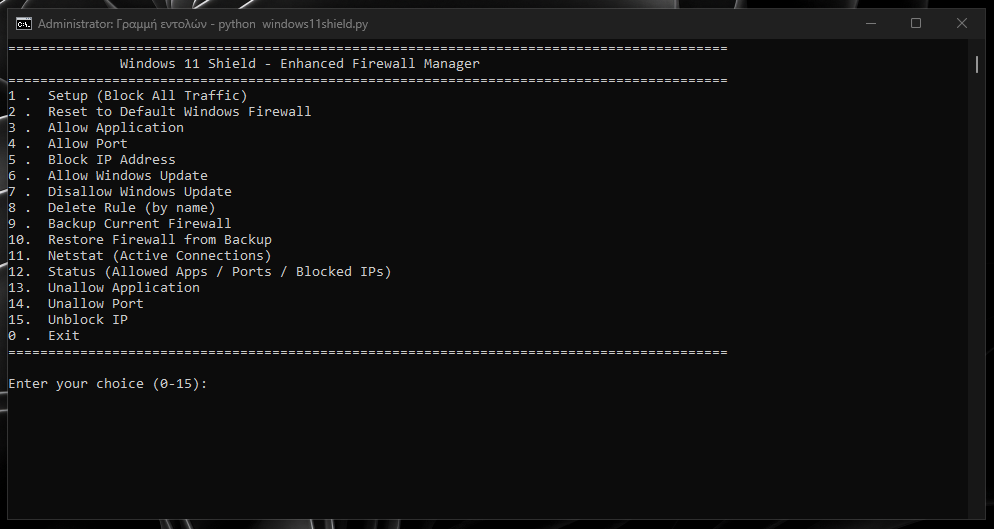
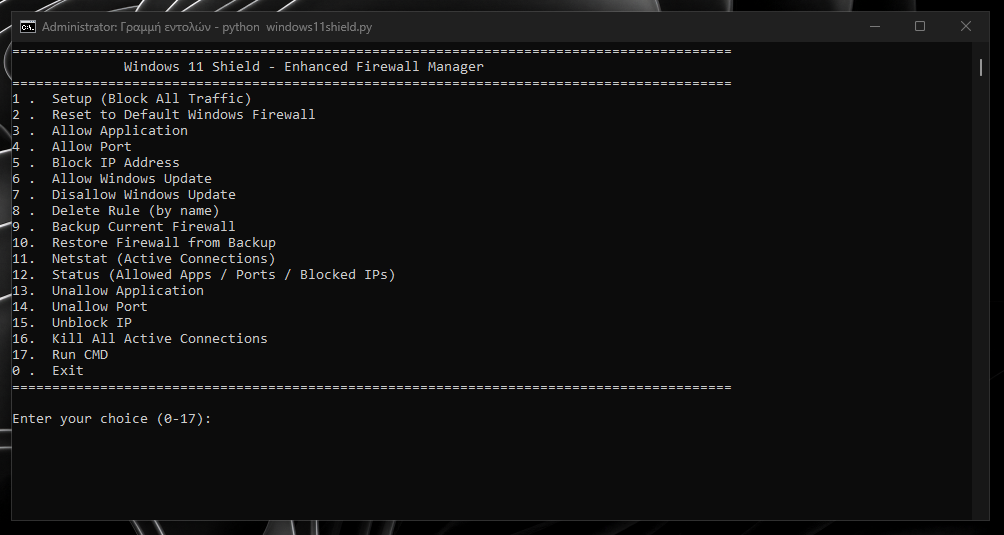
Add files via upload

diff --git a/windows11shield.py b/windows11shield.py
@@ -58,6 +58,49 @@ def run_command(cmd):
     except Exception as e:
         return -1, "", str(e)
 
+# ====================== KILL ALL CONNECTIONS ======================
+def kill_all_connections():
+    print("⚠️  WARNING: This will kill ALL active network connections!")
+    print("This may disconnect you from the internet, remote sessions, downloads, etc.")
+    confirm = input("\nAre you ABSOLUTELY sure? (type YES to continue): ").strip().upper()
+    
+    if confirm != "YES":
+        print("Operation cancelled.")
+        return
+
+    print("\n🔍 Reading active connections...")
+    try:
+        result = subprocess.run("netstat -ano", shell=True, capture_output=True, text=True, encoding='utf-8', errors='replace')
+        lines = result.stdout.splitlines()
+        
+        pids_to_kill = set()
+        for line in lines:
+            if "ESTABLISHED" in line or "TIME_WAIT" in line:
+                parts = line.split()
+                if len(parts) >= 5:
+                    pid = parts[-1].strip()
+                    if pid.isdigit() and int(pid) > 100:  # Protect system critical PIDs
+                        pids_to_kill.add(pid)
+        
+        if not pids_to_kill:
+            print("No active connections found to kill.")
+            return
+
+        print(f"Found {len(pids_to_kill)} active connections to terminate...")
+        
+        killed = 0
+        for pid in pids_to_kill:
+            code, _, _ = run_command(f"taskkill /F /PID {pid}")
+            if code == 0:
+                killed += 1
+            # Small delay to avoid overwhelming the system
+            time.sleep(0.05)  # uncomment if needed
+        
+        print(f"✅ Successfully killed {killed} connections.")
+        
+    except Exception as e:
+        print(f"❌ Error: {e}")
+
 # ====================== CORE FUNCTIONS ======================
 def setup():
     print("🔒 Applying Strict Block All policy...")
@@ -258,13 +301,16 @@ while True:
     print("13.  Unallow Application")
     print("14.  Unallow Port")
     print("15.  Unblock IP")
+    print("16.  Kill All Active Connections")
+    print("17.  Run CMD")
     print("0 .  Exit")
     print("="*90)
 
-    choice = input("\nEnter your choice (0-15): ").strip()
+    choice = input("\nEnter your choice (0-17): ").strip()
 
     if choice == "1":
         setup()
+        kill_all_connections()
     elif choice == "2":
         if input("Are you sure? (y/n): ").lower() == "y":
             reset()
@@ -302,17 +348,23 @@ while True:
         fname = input("Backup filename to restore: ")
         restore_firewall(fname)
     elif choice == "11":
-        os.system("netstat -ano | findstr ESTABLISHED")
+        os.system("netstat -aon | findstr ESTABLISHED")
         input("\nPress Enter...")
     elif choice == "12":
         show_status()
-        input("\nPress Enter to continue...")
+        input("\nPress Enter...")
     elif choice == "13":
         unallow_app()
     elif choice == "14":
         unallow_port()
     elif choice == "15":
         unblock_ip()
+    elif choice == "16":
+        kill_all_connections()
+    elif choice == "17":
+        cmd = input("SourceCode347 >: ")
+        output = run_command(cmd)
+        print(output[1])
     elif choice == "0":
         print("👋 Goodbye!")
         break